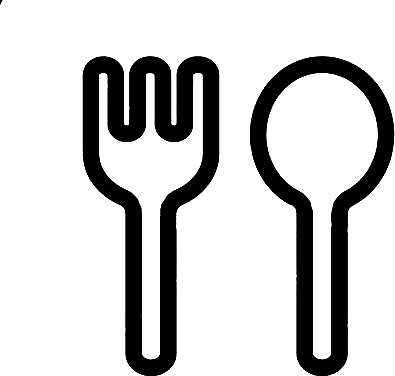
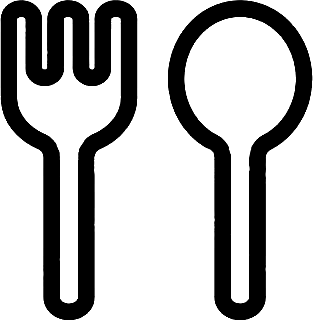
凌晨1:29：後台飲食圖示擺正置中

diff --git a/index.html b/index.html
@@ -13,9 +13,9 @@
   <link rel="manifest" href="manifest.json" />
   <link rel="apple-touch-icon" href="apple-touch-icon.png" />
   <title>統潔＆信潔開發有限公司 — 租房管理</title>
-  <link rel="stylesheet" href="app.css?v=1033" />
-  <link rel="stylesheet" href="plan-icon.css?v=1033" />
-  <link rel="stylesheet" href="work-scroll.css?v=1033" />
+  <link rel="stylesheet" href="app.css?v=1034" />
+  <link rel="stylesheet" href="plan-icon.css?v=1034" />
+  <link rel="stylesheet" href="work-scroll.css?v=1034" />
   <style>
     html, body { margin: 0; background: #ffffff; }
     #splash {
@@ -52,8 +52,8 @@
       catch (e) { return false; }
     }
   </script>
-  <script src="app.js?v=1033"></script>
-  <script src="work-enhance.js?v=1033"></script>
+  <script src="app.js?v=1034"></script>
+  <script src="work-enhance.js?v=1034"></script>
   <script>setTimeout(function(){ var s=document.getElementById("splash"); if(s) s.classList.add("out"); }, 3500);</script>
 </body>
 </html>

diff --git a/plan-icon.css b/plan-icon.css
@@ -1,6 +1,6 @@
 .move-pick-plan {
   background-color: #62765b;
-  -webkit-mask: url("images/plan-mark.png?v=1033") center / 20px 20px no-repeat;
-  mask: url("images/plan-mark.png?v=1033") center / 20px 20px no-repeat;
+  -webkit-mask: url("images/plan-mark.png?v=1034") center / 20px 20px no-repeat;
+  mask: url("images/plan-mark.png?v=1034") center / 20px 20px no-repeat;
 }
 .move-pick-plan img { opacity: 0; }

diff --git a/sw.js b/sw.js
@@ -1,5 +1,5 @@
-const CACHE = "tongjie-app-v1548";
-const BUILD = "20260926-1033";
+const CACHE = "tongjie-app-v1549";
+const BUILD = "20260926-1034";
 const FILES = ["/", "/index.html", "/app.css", "/app.js", "/work-scroll.css", "/work-enhance.js", "/manifest.json", "/icon-192.png", "/icon-512.png", "/icon-maskable-512.png"];
 self.addEventListener("install", e => {
   self.skipWaiting();

diff --git a/app.css b/app.css
@@ -2614,7 +2614,7 @@ button.avatar-look.is-press { transform: scale(.94); }
 .tab-ic.ic-ai { width: 24px; }
 .tab-ic.ic-announce { width: 30px; }
 .tab-ic.ic-history { width: 33px; }
-.tab-ic.ic-food { width: 27px; }
+.tab-ic.ic-food { width: 25px; }
 .tab-repair {
   display: grid;
   place-items: center;
